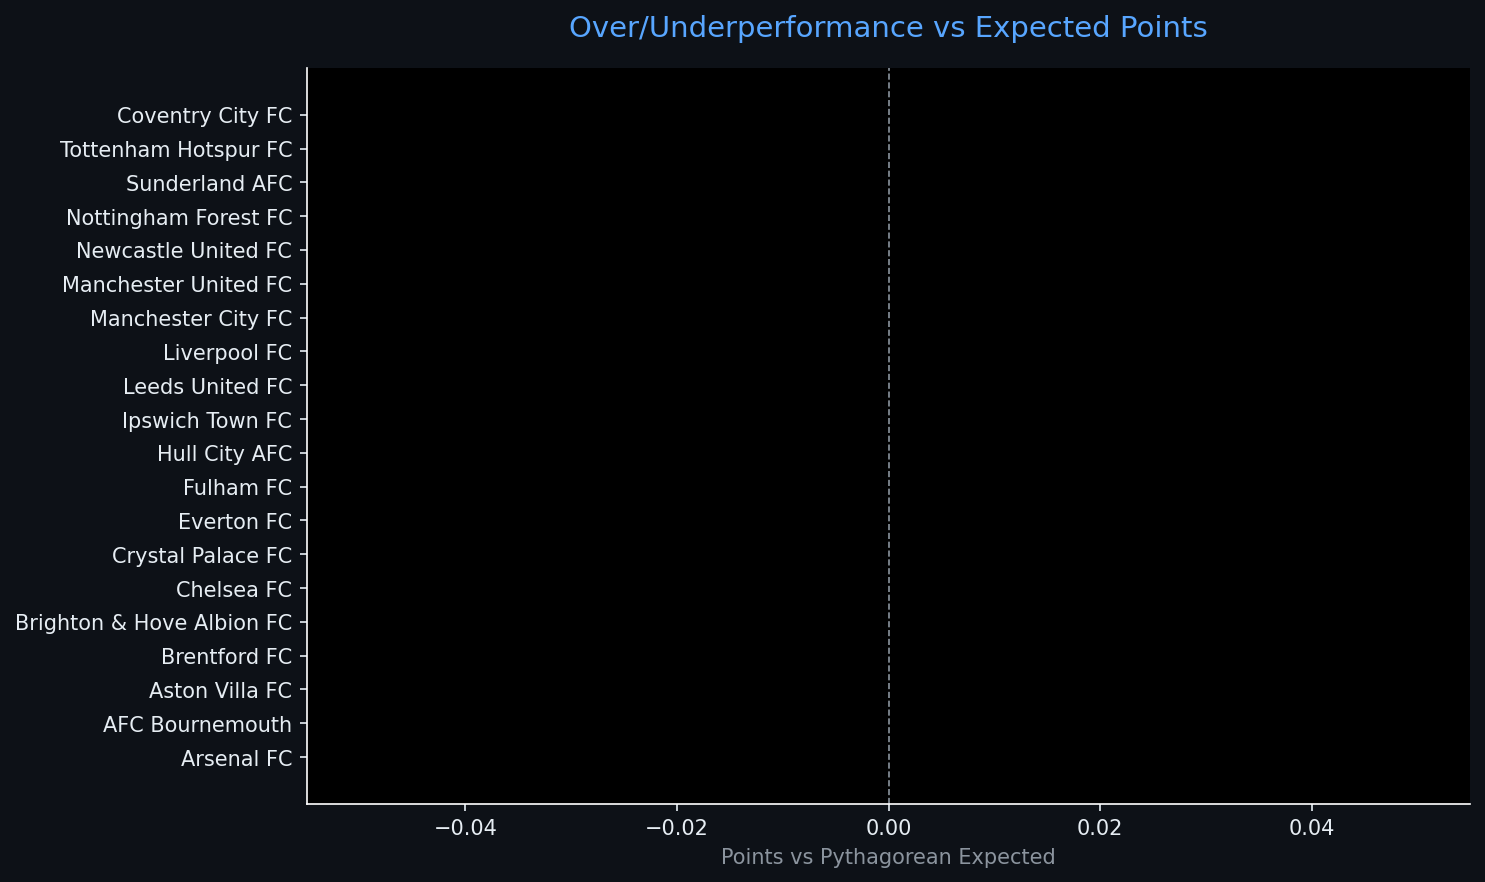
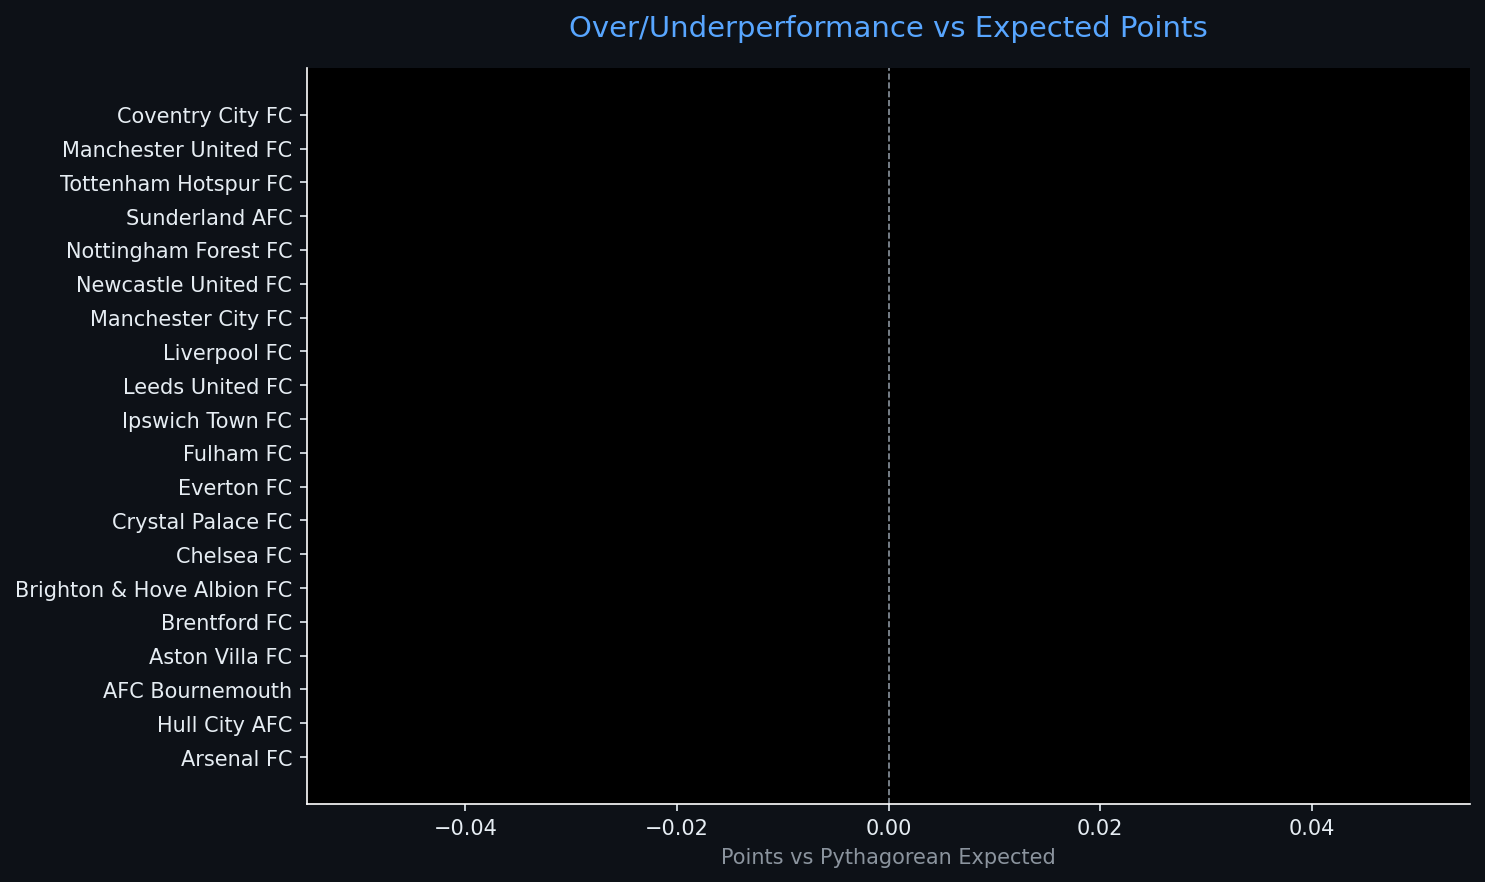
Automated ETL data update: 2026-08-22 12:23

Changed region(s): [[0.0, 0.4898, 0.2168, 0.8265], [0.031, 0.1531, 0.1859, 0.3367]]

diff --git a/reports/pipeline_report.html b/reports/pipeline_report.html
@@ -4,7 +4,7 @@
 <head>
     <meta charset="UTF-8">
     <meta name="viewport" content="width=device-width, initial-scale=1.0">
-    <title>Sports Data Pipeline Report — 2026-08-22 10:15</title>
+    <title>Sports Data Pipeline Report — 2026-08-22 12:23</title>
     <style>
         body { font-family: 'Segoe UI', sans-serif; background: #0d1117; color: #e6edf3; margin: 0; padding: 2rem; }
         h1   { color: #58a6ff; border-bottom: 1px solid #30363d; padding-bottom: 0.5rem; }
@@ -20,7 +20,7 @@
 </head>
 <body>
     <h1>⚽ Sports Data Pipeline — Automated Report</h1>
-    <p class="meta">Generated: 2026-08-22 10:15 UTC &nbsp;|&nbsp; Sport: <strong>football</strong> &nbsp;|&nbsp; Rows: <strong>20</strong></p>
+    <p class="meta">Generated: 2026-08-22 12:23 UTC &nbsp;|&nbsp; Sport: <strong>football</strong> &nbsp;|&nbsp; Rows: <strong>20</strong></p>
     <span class="badge">Pipeline v1.0.0</span>
     <h2>📊 Data Table</h2>
     <table class="dataframe data-table">
@@ -59,6 +59,21 @@
     </tr>
     <tr>
       <td>2</td>
+      <td>Hull City AFC</td>
+      <td>1</td>
+      <td>3</td>
+      <td>1</td>
+      <td>0</td>
+      <td>0</td>
+      <td>2</td>
+      <td>0</td>
+      <td>1.000</td>
+      <td>3.000</td>
+      <td>1.000</td>
+      <td>NaN</td>
+    </tr>
+    <tr>
+      <td>3</td>
       <td>AFC Bournemouth</td>
       <td>0</td>
       <td>0</td>
@@ -73,7 +88,7 @@
       <td>NaN</td>
     </tr>
     <tr>
-      <td>2</td>
+      <td>3</td>
       <td>Aston Villa FC</td>
       <td>0</td>
       <td>0</td>
@@ -88,7 +103,7 @@
       <td>NaN</td>
     </tr>
     <tr>
-      <td>2</td>
+      <td>3</td>
       <td>Brentford FC</td>
       <td>0</td>
       <td>0</td>
@@ -103,7 +118,7 @@
       <td>NaN</td>
     </tr>
     <tr>
-      <td>2</td>
+      <td>3</td>
       <td>Brighton &amp; Hove Albion FC</td>
       <td>0</td>
       <td>0</td>
@@ -118,7 +133,7 @@
       <td>NaN</td>
     </tr>
     <tr>
-      <td>2</td>
+      <td>3</td>
       <td>Chelsea FC</td>
       <td>0</td>
       <td>0</td>
@@ -133,7 +148,7 @@
       <td>NaN</td>
     </tr>
     <tr>
-      <td>2</td>
+      <td>3</td>
       <td>Crystal Palace FC</td>
       <td>0</td>
       <td>0</td>
@@ -148,7 +163,7 @@
       <td>NaN</td>
     </tr>
     <tr>
-      <td>2</td>
+      <td>3</td>
       <td>Everton FC</td>
       <td>0</td>
       <td>0</td>
@@ -163,7 +178,7 @@
       <td>NaN</td>
     </tr>
     <tr>
-      <td>2</td>
+      <td>3</td>
       <td>Fulham FC</td>
       <td>0</td>
       <td>0</td>
@@ -178,22 +193,7 @@
       <td>NaN</td>
     </tr>
     <tr>
-      <td>2</td>
-      <td>Hull City AFC</td>
-      <td>0</td>
-      <td>0</td>
-      <td>0</td>
-      <td>0</td>
-      <td>0</td>
-      <td>0</td>
-      <td>0</td>
-      <td>0.000</td>
-      <td>0.000</td>
-      <td>0.000</td>
-      <td>NaN</td>
-    </tr>
-    <tr>
-      <td>2</td>
+      <td>3</td>
       <td>Ipswich Town FC</td>
       <td>0</td>
       <td>0</td>
@@ -208,7 +208,7 @@
       <td>NaN</td>
     </tr>
     <tr>
-      <td>2</td>
+      <td>3</td>
       <td>Leeds United FC</td>
       <td>0</td>
       <td>0</td>
@@ -223,7 +223,7 @@
       <td>NaN</td>
     </tr>
     <tr>
-      <td>2</td>
+      <td>3</td>
       <td>Liverpool FC</td>
       <td>0</td>
       <td>0</td>
@@ -238,7 +238,7 @@
       <td>NaN</td>
     </tr>
     <tr>
-      <td>2</td>
+      <td>3</td>
       <td>Manchester City FC</td>
       <td>0</td>
       <td>0</td>
@@ -253,22 +253,7 @@
       <td>NaN</td>
     </tr>
     <tr>
-      <td>2</td>
-      <td>Manchester United FC</td>
-      <td>0</td>
-      <td>0</td>
-      <td>0</td>
-      <td>0</td>
-      <td>0</td>
-      <td>0</td>
-      <td>0</td>
-      <td>0.000</td>
-      <td>0.000</td>
-      <td>0.000</td>
-      <td>NaN</td>
-    </tr>
-    <tr>
-      <td>2</td>
+      <td>3</td>
       <td>Newcastle United FC</td>
       <td>0</td>
       <td>0</td>
@@ -283,7 +268,7 @@
       <td>NaN</td>
     </tr>
     <tr>
-      <td>2</td>
+      <td>3</td>
       <td>Nottingham Forest FC</td>
       <td>0</td>
       <td>0</td>
@@ -298,7 +283,7 @@
       <td>NaN</td>
     </tr>
     <tr>
-      <td>2</td>
+      <td>3</td>
       <td>Sunderland AFC</td>
       <td>0</td>
       <td>0</td>
@@ -313,7 +298,7 @@
       <td>NaN</td>
     </tr>
     <tr>
-      <td>2</td>
+      <td>3</td>
       <td>Tottenham Hotspur FC</td>
       <td>0</td>
       <td>0</td>
@@ -322,6 +307,21 @@
       <td>0</td>
       <td>0</td>
       <td>0</td>
+      <td>0.000</td>
+      <td>0.000</td>
+      <td>0.000</td>
+      <td>NaN</td>
+    </tr>
+    <tr>
+      <td>19</td>
+      <td>Manchester United FC</td>
+      <td>1</td>
+      <td>0</td>
+      <td>0</td>
+      <td>0</td>
+      <td>1</td>
+      <td>0</td>
+      <td>2</td>
       <td>0.000</td>
       <td>0.000</td>
       <td>0.000</td>
@@ -360,9 +360,9 @@
         
         <tr><td>Total Columns</td><td>29</td></tr>
         
-        <tr><td>Null Values</td><td>118</td></tr>
+        <tr><td>Null Values</td><td>116</td></tr>
         
-        <tr><td>Run Timestamp (UTC)</td><td>2026-08-22T10:15:33.716325</td></tr>
+        <tr><td>Run Timestamp (UTC)</td><td>2026-08-22T12:23:47.347135</td></tr>
         
         <tr><td>ML Features Ready</td><td>False</td></tr>
         
